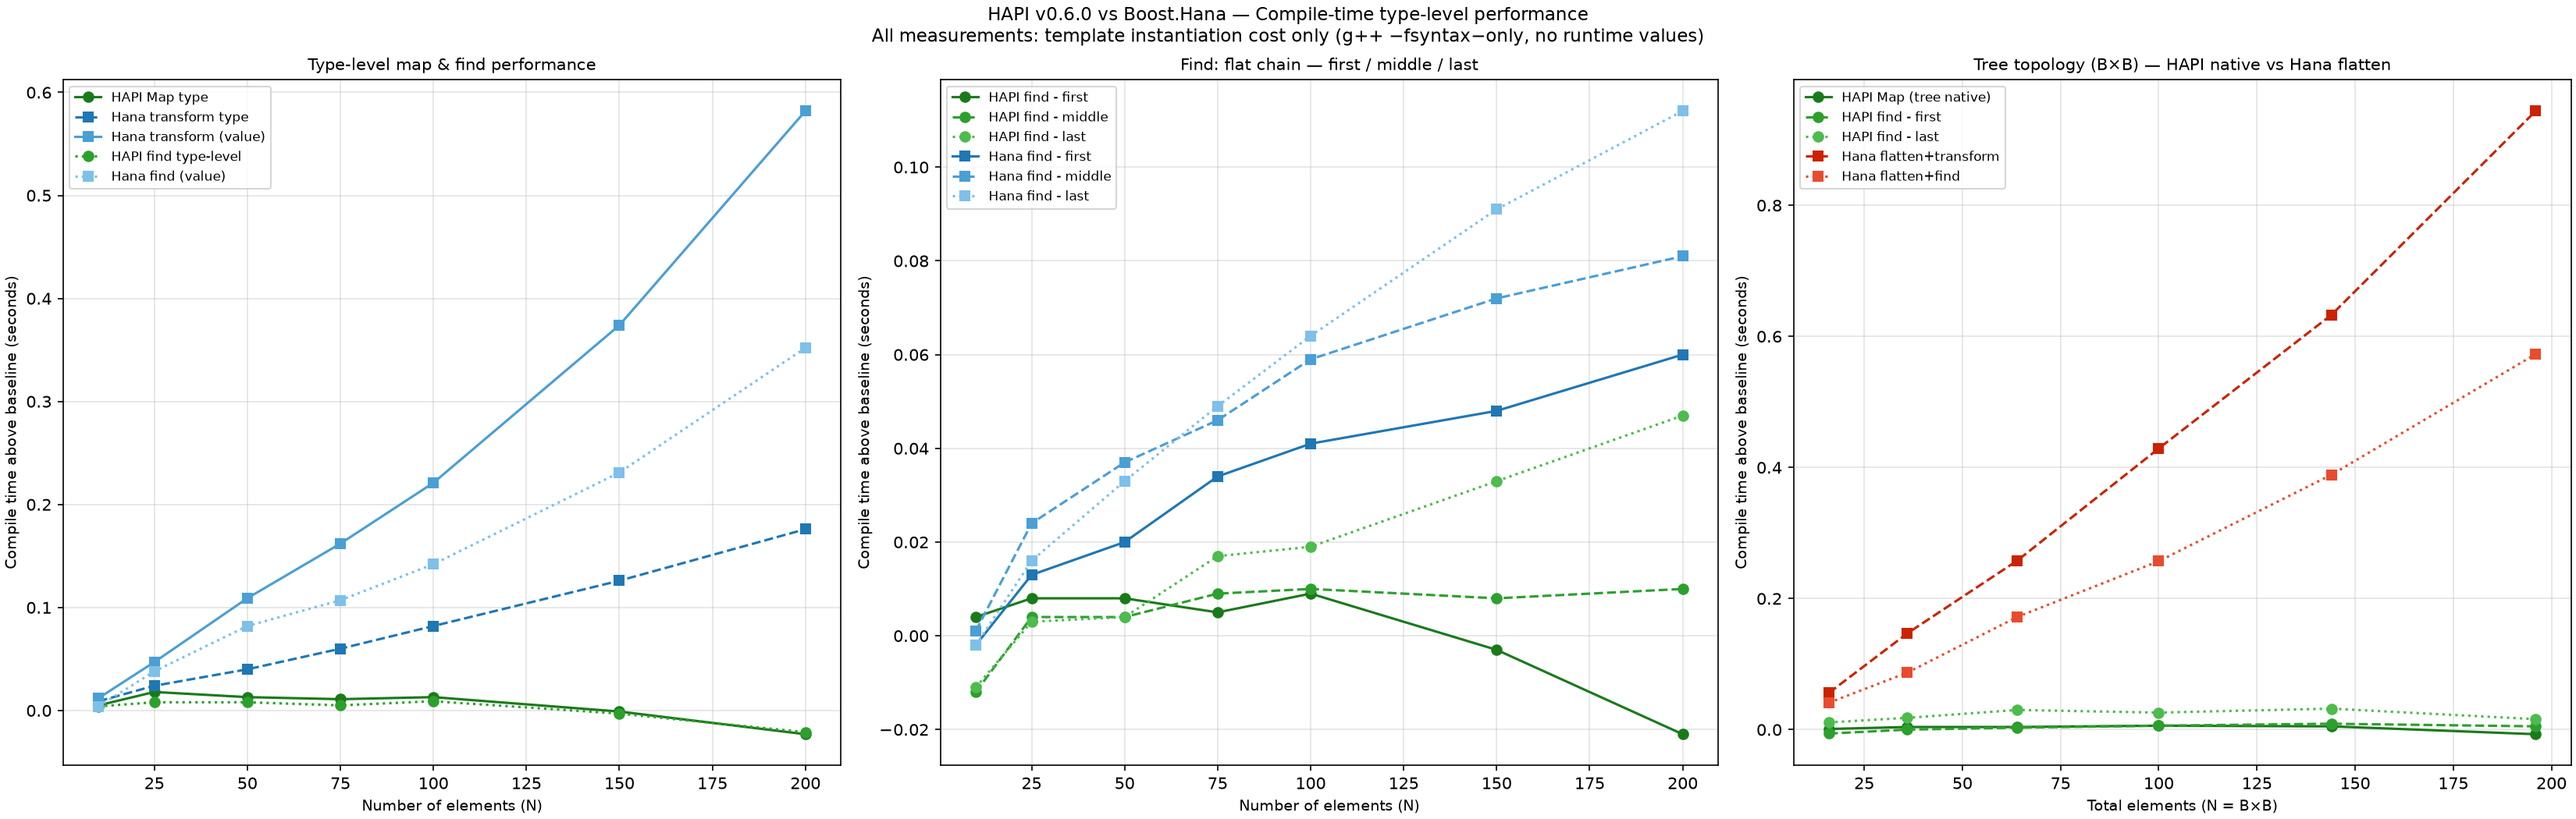
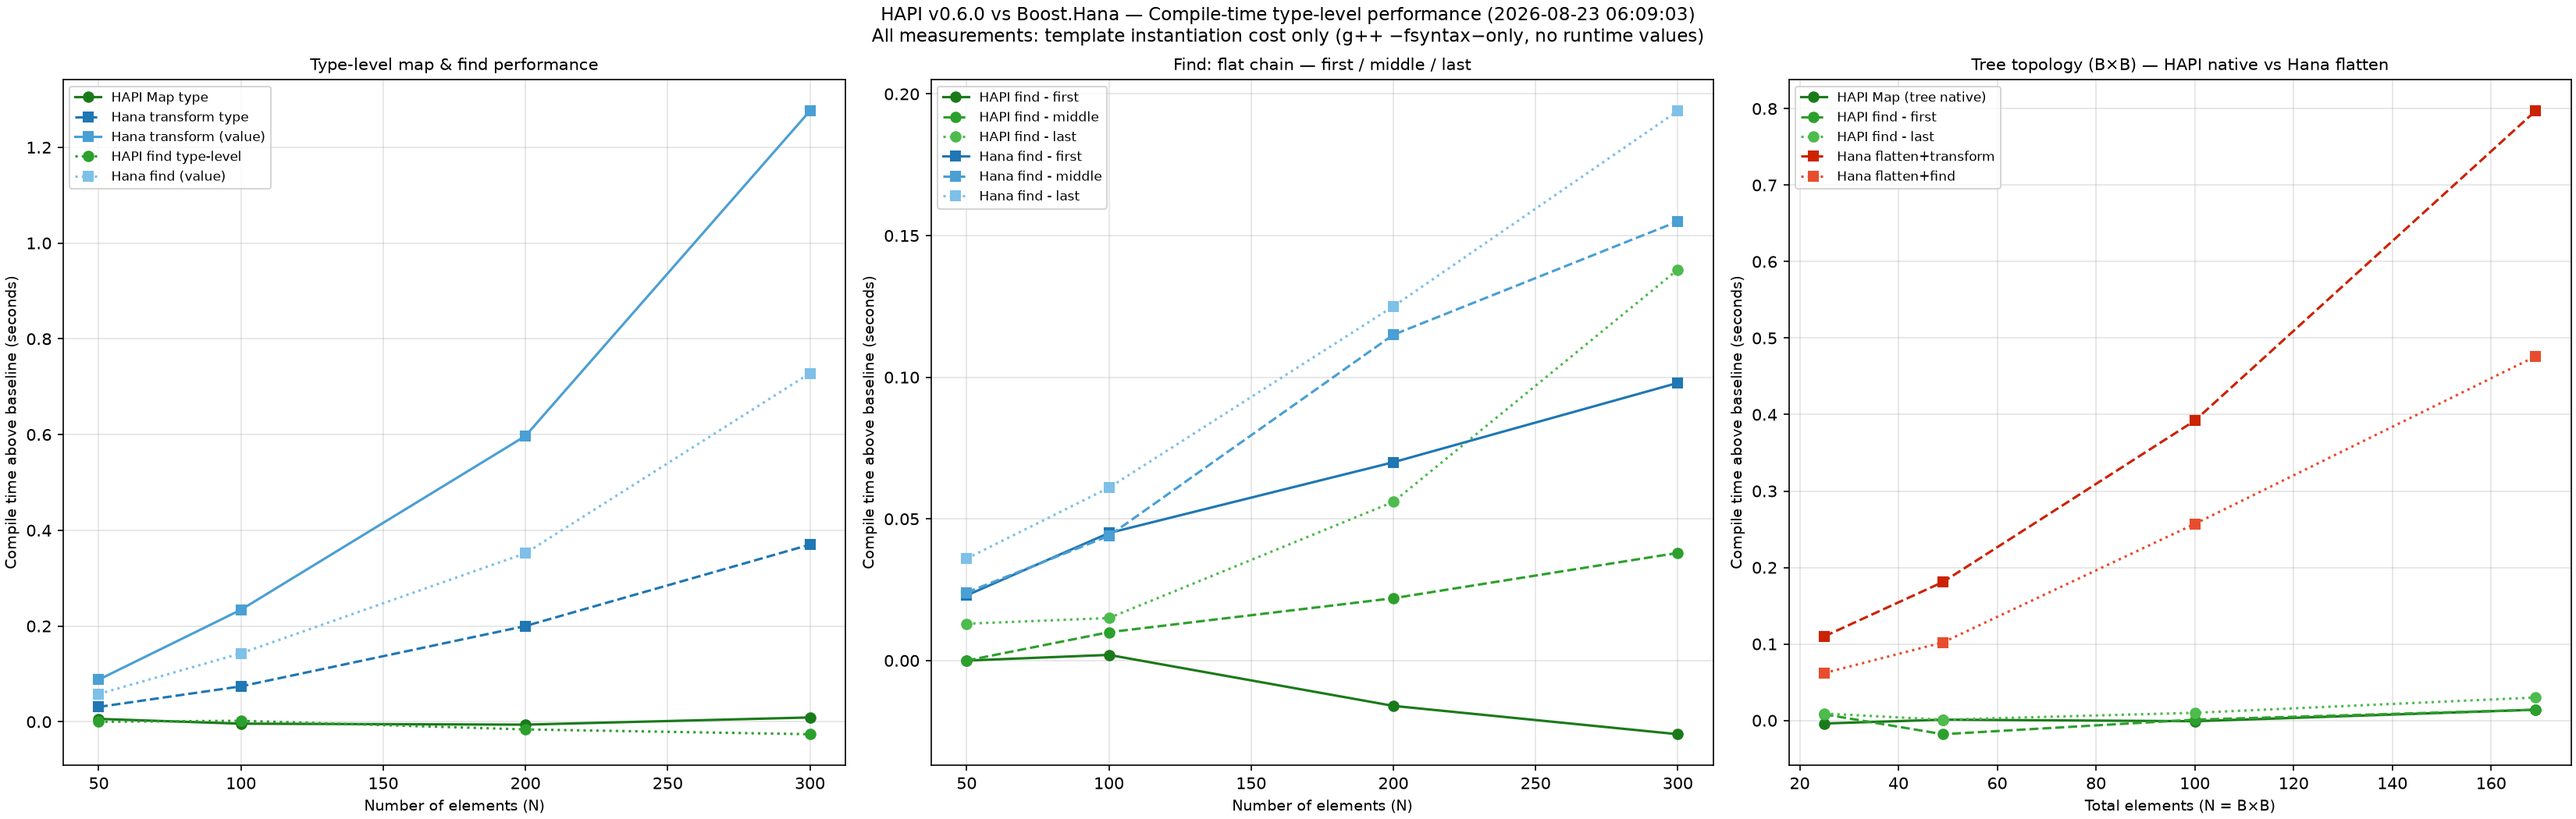
Fix APIOf unicity escape via nested closed composition; refresh bench chart
A closed APIOf nested as another APIOf's API/fallback param hid its
contents from BuildRules's uniqueness/ordering fold, letting a component
duplicate silently (confirmed via sizeof: 4 -> 8 bytes). Fixed by
validating APIOf's own Types (API included) and splicing a nested APIOf
into the walk in place, mirroring the existing bare-Chain splice.
Regression case added to compile_tests.cpp.

benchmark: SIZES now starts at 50 (below that, signal was noise) with
300 added at the top; chart title now includes date+version.

diff --git a/include/hapi/hapi.h b/include/hapi/hapi.h
@@ -23,7 +23,20 @@ namespace hapi {
     template<typename T>
     using Part = typename Chain<OO...>::template Part<T>;
 
-    static_assert(BuildRules<Chain<>,Chain<OO...>>::rules(), "HAPI: validation failed");
+    // validated over Types (API included), not just OO... — API is a real
+    // component in the resulting inheritance chain and must be visible to
+    // ordering/uniqueness rules like any other element.
+    static_assert(BuildRules<Chain<>,Chain<API,OO...>>::rules(), "HAPI: validation failed");
   };
+
+  /// @brief a nested APIOf used as one component is spliced into the walk in
+  /// place via its own Types, exactly like rules.h's nested-bare-Chain splice —
+  /// otherwise a closed composition placed as the API/fallback of an outer
+  /// APIOf hides its contents from the outer chain's rules() fold, letting the
+  /// same component type appear twice (once inside the nested APIOf, once in
+  /// the outer OO...) without tripping any uniqueness/ordering static_assert.
+  template<typename Before, typename API2, typename... OO2, typename... Rest>
+  struct BuildRules<Before, Chain<APIOf<API2,OO2...>, Rest...>>
+    : BuildRules<Before, Chain<API2, OO2..., Rest...>> {};
 
 }; // namespace hapi

diff --git a/tests/compile_tests.cpp b/tests/compile_tests.cpp
@@ -80,6 +80,10 @@ constexpr ItemDef<Chain<A,B>> ok3{};//A,B nested one level (mono_block) -- same 
 // constexpr ItemDef<A,B,B> fail_unicity{};//will fail with compile error "error: static assertion failed: do not repeat B!""
 // constexpr ItemDef<Chain<B,A>> fail_nested_order{};//same as fail_order, nested: "error: static assertion failed: A must be before B"
 
+using ClosedAB = APIOf<A,B>; //closed composition, valid standalone
+constexpr ClosedAB ok4{};
+// constexpr APIOf<ClosedAB,B> fail_nested_unicity{};//ClosedAB (an APIOf) nested as another APIOf's own API/fallback must stay visible to unicity rules; will fail "do not repeat B!"
+
 // ── meta.h surface coverage ────────────────────────────────────────────────
 // Everything below exercises a meta.h (or rules.h) construct that had zero
 // compile coverage before -- the At<idx,O> termination bug (fixed 2026-08-20,

diff --git a/benchmark/bench_chart.py b/benchmark/bench_chart.py
@@ -112,7 +112,7 @@ def plot_panel(ax, x_vals, data, baseline, series, xlabel, title):
 
 fig, axes_flat = plt.subplots(1, 3, figsize=(22, 7), layout="constrained")
 fig.suptitle(
-    f"HAPI v{hapi_ver} vs Boost.Hana — Compile-time type-level performance\n"
+    f"HAPI v{hapi_ver} vs Boost.Hana — Compile-time type-level performance ({date_str})\n"
     "All measurements: template instantiation cost only "
     "(g++ −fsyntax−only, no runtime values)",
     fontsize=11
